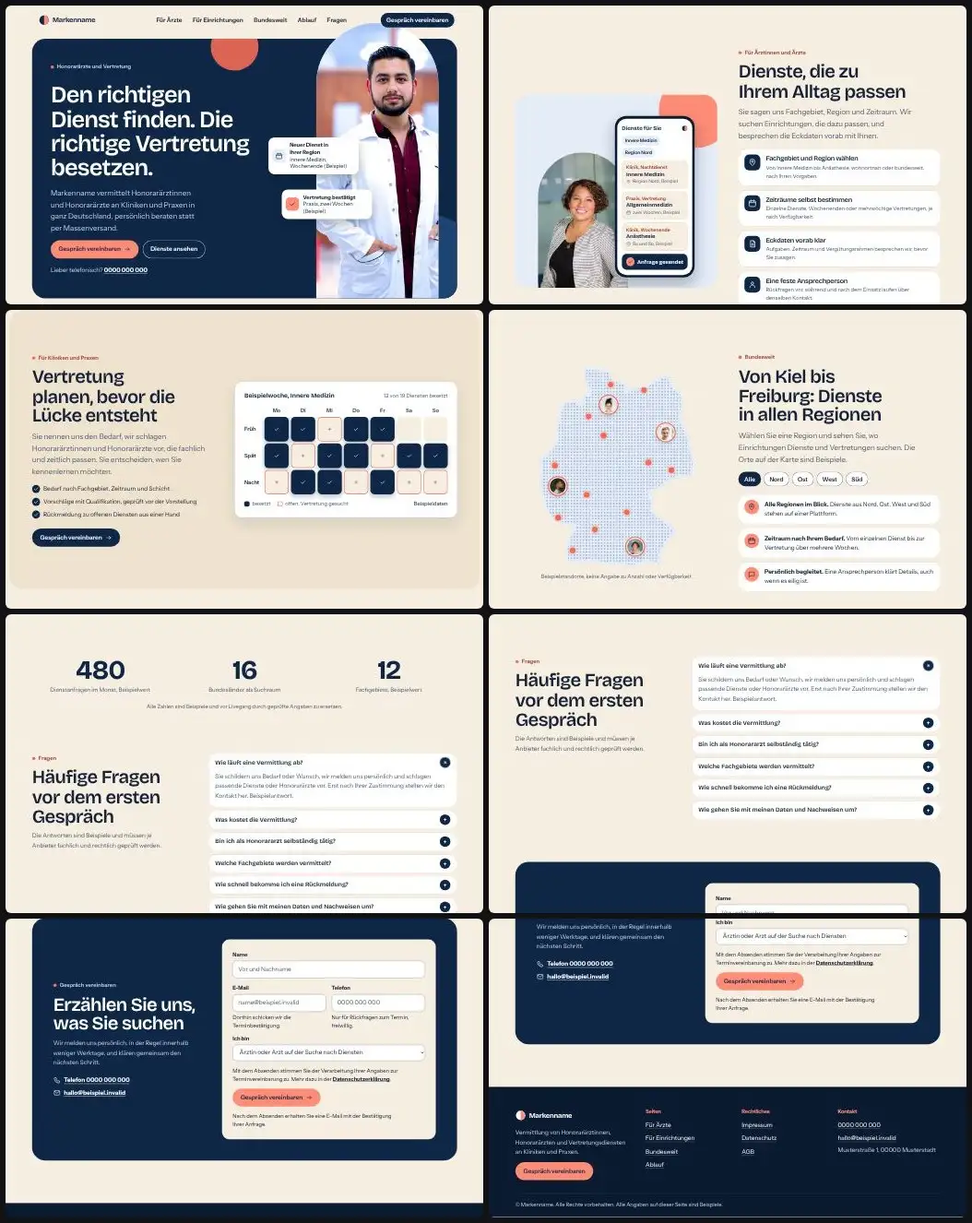
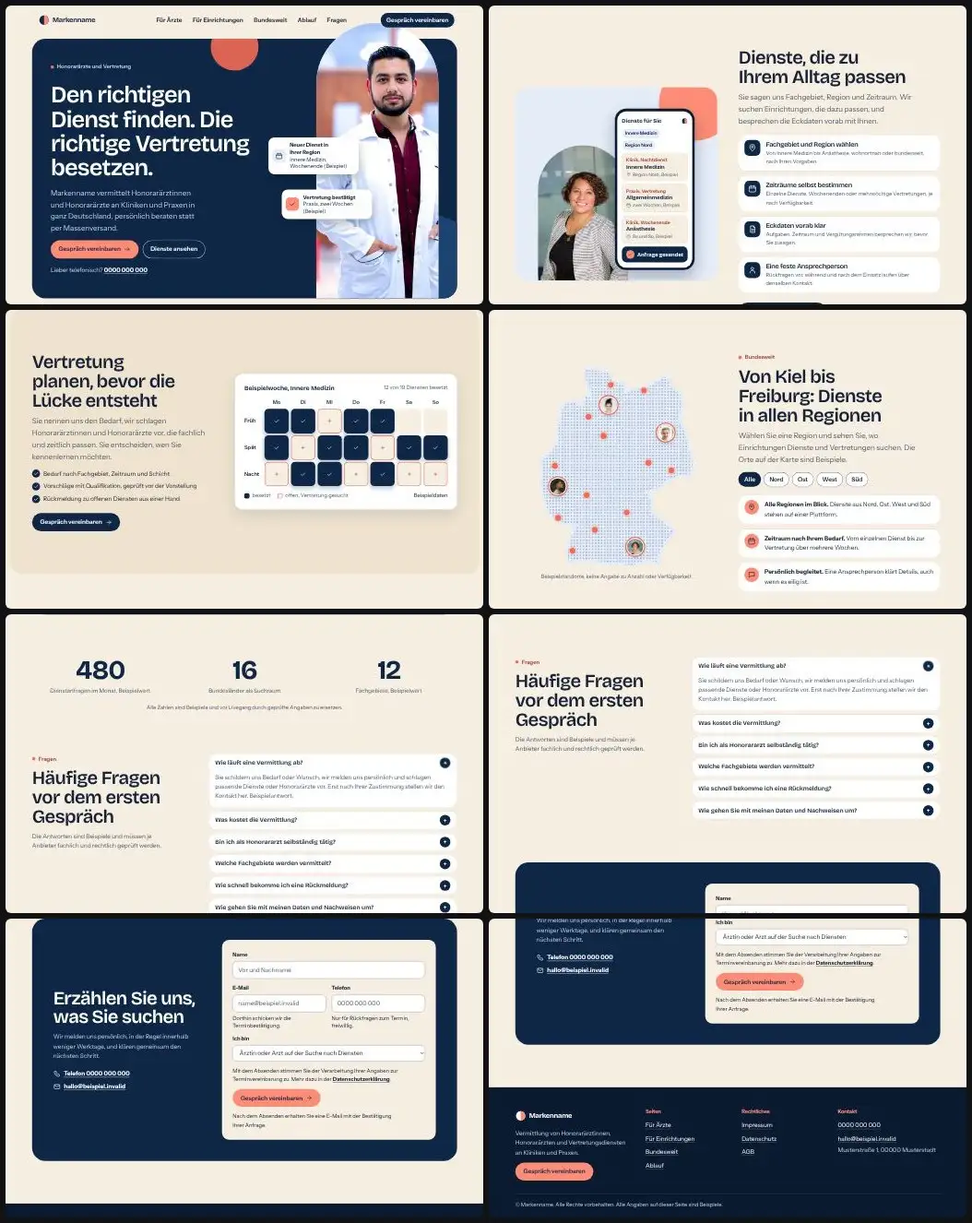
Bibliothek t99 bis t111: Abschlussdurchgang (Kicker, Hover in Medienabfrage, Vorschau t100 und t102)
Claude-Session: https://claude.ai/code/session_01DoGuKzzFPezwatxKtZNEi2

diff --git a/skills/webdesign-conversion/assets/vorlagen/bibliothek/t108/stil.css b/skills/webdesign-conversion/assets/vorlagen/bibliothek/t108/stil.css
@@ -5,7 +5,7 @@
 h2{font-size:var(--h2)}
 .textlink{display:inline-flex;align-items:center;gap:.4rem;min-height:2.75rem;font-weight:600;color:var(--akzent)}
 .textlink svg{transition:transform var(--dauer-kurz) var(--kurve)}
-.textlink:hover svg{transform:translateX(4px)}
+@media (hover:hover) and (pointer:fine){.textlink:hover svg{transform:translateX(4px)}}
 .knopf--rand{background:var(--weiss);color:var(--text);box-shadow:inset 0 0 0 1.5px var(--linie)}
 .knopf--rand svg{color:var(--akzent)}
 .knopf:hover{background:#0a4f40}
@@ -86,7 +86,7 @@ h2{font-size:var(--h2)}
 html:not(.reiter-an) .reiterliste{display:none}
 .reiter{flex:none;display:flex;flex-direction:column;align-items:center;gap:.35rem;min-width:5.5rem;padding:.5rem .5rem .4rem;border-radius:18px;font-size:.8125rem;font-weight:600;color:var(--text);transition:background-color var(--dauer-kurz)}
 .reiter__ikon{display:grid;place-items:center;width:3.25rem;height:3.25rem;border-radius:16px;background:var(--k);color:#fff;transition:transform var(--dauer-mittel) var(--kurve)}
-.reiter:hover .reiter__ikon{transform:translateY(-3px)}
+@media (hover:hover) and (pointer:fine){.reiter:hover .reiter__ikon{transform:translateY(-3px)}}
 .reiter[aria-selected="true"]{background:var(--flaeche-alt)}
 .reiter[aria-selected="true"] .reiter__ikon{transform:translateY(-4px) scale(1.12)}
 .tafeln{display:grid;gap:1.5rem}
@@ -174,7 +174,7 @@ html:not(.reiter-an) .reiterliste{display:none}
 @media (min-width:44rem){.vorteile__raster{grid-template-columns:repeat(2,1fr)}}
 @media (min-width:64rem){.vorteile__raster{grid-template-columns:repeat(3,1fr)}}
 .vorteile .karte{gap:.7rem;background:linear-gradient(180deg,var(--weiss),var(--flaeche));transition:transform var(--dauer-mittel) var(--kurve)}
-.vorteile .karte:hover{transform:translateY(-4px)}
+@media (hover:hover) and (pointer:fine){.vorteile .karte:hover{transform:translateY(-4px)}}
 .vorteile h3{display:flex;align-items:center;gap:.6rem;font-size:1.125rem;letter-spacing:-.01em}
 .vorteile h3 svg{color:var(--akzent)}
 .zeichnung{position:relative;width:100%;height:11rem;margin-top:auto;display:grid;place-items:center}
@@ -231,14 +231,14 @@ html:not(.reiter-an) .reiterliste{display:none}
 .gross__bild{position:relative;width:100%;aspect-ratio:16/10;border-radius:var(--radius-bild);background:var(--flaeche-dunkel);overflow:hidden;display:flex;align-items:flex-end;gap:.6rem;padding:1.25rem}
 .gross__bild span{flex:1;border-radius:10px 10px 4px 4px;background:var(--gruen-hell);height:45%}
 .gross__bild span:nth-child(2){height:70%;background:var(--sonne)}.gross__bild span:nth-child(3){height:55%;background:var(--koralle)}
-.gross:hover .gross__bild span{transform:translateY(-6px)}
+@media (hover:hover) and (pointer:fine){.gross:hover .gross__bild span{transform:translateY(-6px)}}
 .gross__bild span{transition:transform var(--dauer-mittel) var(--kurve)}
 .ratgeber__liste{display:grid}
 .ratgeber__liste li{display:grid;gap:.3rem;padding-block:1.1rem;border-bottom:1px solid var(--linie)}
 .ratgeber__liste li:first-child{padding-top:0}
 .ratgeber__liste h3{font-size:1.125rem;letter-spacing:-.01em}
 .ratgeber__liste h3 a{display:inline-block;padding-block:.15rem;transition:transform var(--dauer-kurz) var(--kurve)}
-.ratgeber__liste h3 a:hover{transform:translateX(4px);color:var(--akzent)}
+@media (hover:hover) and (pointer:fine){.ratgeber__liste h3 a:hover{transform:translateX(4px);color:var(--akzent)}}
 .ratgeber__liste p:not(.meta){color:var(--text-leise);font-size:var(--text-s)}
 
 /* Fragen */
@@ -260,7 +260,7 @@ details p{padding:0 1.25rem 1.25rem;color:var(--text-leise)}
 .faecher{position:absolute;top:clamp(1.5rem,3vw,2.5rem);left:50%;display:flex;transform:translateX(-50%)}
 .faecher i{width:3.5rem;height:3.5rem;margin-inline:-.35rem;border-radius:16px;background:var(--k);box-shadow:0 8px 20px rgba(0,0,0,.35);transform:rotate(calc((var(--n,0) - 2.5) * 7deg)) translateY(calc(var(--y,0) * 1px));transition:transform var(--dauer-mittel) var(--kurve)}
 .faecher i:nth-child(1){--n:0;--y:6}.faecher i:nth-child(2){--n:1;--y:1}.faecher i:nth-child(3){--n:2;--y:-3}.faecher i:nth-child(4){--n:3;--y:-3}.faecher i:nth-child(5){--n:4;--y:1}.faecher i:nth-child(6){--n:5;--y:6}
-.schluss:hover .faecher i{transform:rotate(calc((var(--n,0) - 2.5) * 10deg)) translateY(calc(var(--y,0) * 1px - 6px))}
+@media (hover:hover) and (pointer:fine){.schluss:hover .faecher i{transform:rotate(calc((var(--n,0) - 2.5) * 10deg)) translateY(calc(var(--y,0) * 1px - 6px))}}
 .schluss__raster{display:grid;gap:2.5rem}
 @media (min-width:56rem){.schluss__raster{grid-template-columns:1fr 1fr;align-items:center;gap:4rem}}
 .schluss__text{display:flex;flex-direction:column;gap:1.1rem}

diff --git a/skills/webdesign-conversion/assets/vorlagen/bibliothek/t105/stil.css b/skills/webdesign-conversion/assets/vorlagen/bibliothek/t105/stil.css
@@ -12,7 +12,7 @@ h3{font-size:var(--h3);line-height:1.2}
 .knopf{justify-content:center;text-align:center;font-size:1rem;font-weight:600;min-height:3rem;padding-right:.5rem}
 .knopf:hover{box-shadow:0 8px 20px color-mix(in srgb,var(--akzent) 25%,transparent)}
 .knopf__punkt{display:inline-grid;place-items:center;width:2.25rem;height:2.25rem;border-radius:50%;background:var(--akzent-text);color:var(--akzent);transition:transform var(--dauer-kurz) var(--kurve)}
-.knopf:hover .knopf__punkt{transform:translate(2px,-2px)}
+@media (hover:hover) and (pointer:fine){.knopf:hover .knopf__punkt{transform:translate(2px,-2px)}}
 .knopf--koralle{background:var(--koralle);color:var(--text);padding-right:1.5rem}
 .knopf--koralle:focus-visible{outline-color:var(--sonne)}
 .textlink{display:inline-flex;align-items:center;min-height:3rem;padding-inline:.5rem;font-weight:600;text-decoration:underline;text-underline-offset:.3em;text-decoration-thickness:2px}
@@ -158,8 +158,8 @@ h3{font-size:var(--h3);line-height:1.2}
 .kk{flex:none;width:min(15rem,70%);display:grid;gap:.25rem;border-radius:1rem;padding:1rem;font-size:.8rem;color:var(--text);transition:transform var(--dauer-mittel) var(--kurve)}
 .kk b{font-size:1.2rem}
 .kk--himmel{background:var(--himmel)}.kk--sonne{background:var(--sonne)}.kk--koralle{background:var(--koralle)}
-.bk:hover .kk:nth-child(2){transform:translateY(-6px)}
-.bk:hover .kk:nth-child(3){transform:translateY(-12px)}
+@media (hover:hover) and (pointer:fine){.bk:hover .kk:nth-child(2){transform:translateY(-6px)}}
+@media (hover:hover) and (pointer:fine){.bk:hover .kk:nth-child(3){transform:translateY(-12px)}}
 .ziele{display:grid;gap:.75rem;font-size:.9rem}
 .ziele>div{display:grid;gap:.5rem}
 
@@ -219,11 +219,11 @@ h3{font-size:var(--h3);line-height:1.2}
 .mehr__kopf p{color:var(--text-leise);margin-top:.5rem}
 .pfeile{display:flex;gap:.5rem}
 .pfeil{display:grid;place-items:center;width:3rem;height:3rem;border-radius:50%;background:var(--akzent);color:var(--akzent-text);transition:transform var(--dauer-kurz) var(--kurve)}
-.pfeil:hover{transform:translateY(-2px)}
+@media (hover:hover) and (pointer:fine){.pfeil:hover{transform:translateY(-2px)}}
 .pfeil[aria-disabled="true"]{opacity:.35;cursor:default}
 .spur{display:flex;gap:1rem;overflow-x:auto;scroll-snap-type:x mandatory;padding:.5rem var(--bleed,var(--rand)) 1rem;scroll-padding-inline:var(--bleed,var(--rand));scrollbar-width:thin;--bleed:max(var(--rand),calc((100vw - var(--breite)) / 2))}
 .fk{flex:none;scroll-snap-align:start;width:min(19rem,80vw);display:grid;gap:.6rem;align-content:start;background:var(--weiss);border-radius:var(--radius-karte);padding:1rem 1rem 1.5rem;box-shadow:0 1px 0 var(--linie);transition:transform var(--dauer-mittel) var(--kurve)}
-.fk:hover{transform:translateY(-4px)}
+@media (hover:hover) and (pointer:fine){.fk:hover{transform:translateY(-4px)}}
 .fk h3{font-size:1.25rem;margin-top:.5rem}
 .fk p{color:var(--text-leise)}
 .fk__bild{display:grid;align-content:center;min-height:9rem;border-radius:1rem;background:var(--flaeche);padding:1rem;font-size:.8rem}
@@ -273,7 +273,7 @@ h3{font-size:var(--h3);line-height:1.2}
 .stimmband::-webkit-scrollbar{display:none}
 .stimmband__spur{display:flex;flex:none;gap:1rem;padding-right:1rem;list-style:none;animation:reihe 80s linear infinite}
 .stimmband--2 .stimmband__spur{animation-direction:reverse;animation-duration:90s}
-.stimmband:hover .stimmband__spur{animation-play-state:paused}
+@media (hover:hover) and (pointer:fine){.stimmband:hover .stimmband__spur{animation-play-state:paused}}
 .stimme{flex:none;width:min(21rem,78vw);display:grid;gap:.75rem;align-content:space-between;background:var(--weiss);border-radius:var(--radius-karte);padding:1.25rem;box-shadow:0 1px 0 var(--linie)}
 .stimme blockquote p{font-size:1.0625rem}
 .stimme__name{color:var(--text-leise);font-size:1rem;font-weight:600}

diff --git a/skills/webdesign-conversion/assets/vorlagen/bibliothek/t102/stil.css b/skills/webdesign-conversion/assets/vorlagen/bibliothek/t102/stil.css
@@ -125,7 +125,7 @@ h3{font-size:clamp(1.4rem,1.15rem + .9vw,1.8rem);line-height:1.15}
 .leist__raster{display:grid;gap:1.25rem;grid-template-columns:1fr}
 .leist__raster>li{display:grid}
 .karte{display:grid;grid-template-rows:auto auto 1fr auto;align-content:start;gap:.75rem;padding:1.5rem;border-radius:var(--radius-karte);background:var(--weiss);color:var(--text);overflow:hidden;transition:transform var(--dauer-mittel) var(--kurve);will-change:transform}
-.karte:hover{transform:translateY(-8px)}
+@media (hover:hover) and (pointer:fine){.karte:hover{transform:translateY(-8px)}}
 .karte p{color:var(--text-leise)}
 .karte__nr{display:grid;place-items:center;width:2.75rem;height:2.75rem;border-radius:50%;background:var(--honig);color:var(--text);font-weight:800;font-size:1rem}
 .karte__foto{position:relative;margin-top:.5rem;border-radius:16px;overflow:hidden}
@@ -179,7 +179,7 @@ h3{font-size:clamp(1.4rem,1.15rem + .9vw,1.8rem);line-height:1.15}
 .direkt__raster{display:grid;gap:1rem;margin-bottom:-3rem;padding-bottom:0}
 .direkt__raster>li{display:grid}
 .direkt__karte{display:grid;grid-template-columns:auto 1fr auto;align-items:center;gap:1rem;padding:1.5rem;border-radius:var(--radius-karte);background:var(--weiss);color:var(--text);box-shadow:0 16px 32px color-mix(in srgb,var(--text) 14%,transparent);transition:transform var(--dauer-mittel) var(--kurve)}
-.direkt__karte:hover{transform:translateY(-6px)}
+@media (hover:hover) and (pointer:fine){.direkt__karte:hover{transform:translateY(-6px)}}
 .direkt__karte--honig{background:var(--honig)}
 .direkt__icon{color:var(--akzent)}
 .direkt__text{display:grid;gap:.15rem}
@@ -189,7 +189,7 @@ h3{font-size:clamp(1.4rem,1.15rem + .9vw,1.8rem);line-height:1.15}
 .direkt__text span{color:var(--text-leise)}
 .direkt__karte--honig .direkt__text span{color:var(--text)}
 .direkt__pfeil{color:var(--akzent);transition:transform var(--dauer-kurz) var(--kurve)}
-.direkt__karte:hover .direkt__pfeil{transform:translate(2px,-2px)}
+@media (hover:hover) and (pointer:fine){.direkt__karte:hover .direkt__pfeil{transform:translate(2px,-2px)}}
 .direkt__karte :focus-visible,.direkt__karte:focus-visible{outline-color:var(--akzent)}
 @media (min-width:48rem){.direkt__raster{grid-template-columns:1fr 1fr;gap:1.5rem}}
 @media (min-width:62rem){.direkt__raster{margin-bottom:-4rem}.direkt__karte{padding:1.75rem 2rem}}
@@ -212,7 +212,7 @@ h3{font-size:clamp(1.4rem,1.15rem + .9vw,1.8rem);line-height:1.15}
 .formular__recht a{text-decoration:underline;text-underline-offset:.2em;font-weight:700;color:var(--akzent)}
 .formular__meldung{padding:.75rem 1rem;border-radius:14px;background:var(--flaeche);box-shadow:inset 0 0 0 1.5px var(--akzent)}
 .rund{position:absolute;right:clamp(1.25rem,4vw,2.5rem);bottom:clamp(1.25rem,3vw,2rem);display:grid;place-items:center;width:5.5rem;height:5.5rem;border-radius:50%;background:var(--honig);color:var(--text);font-weight:800;font-size:1.0625rem;isolation:isolate;transition:transform var(--dauer-kurz) var(--kurve)}
-.rund:hover{transform:scale(1.06)}
+@media (hover:hover) and (pointer:fine){.rund:hover{transform:scale(1.06)}}
 .rund:active{transform:scale(.96)}
 .rund::after{content:"";position:absolute;inset:0;z-index:-1;border-radius:50%;background:var(--honig);opacity:0;animation:puls 2.8s ease-out infinite}
 @keyframes puls{0%{transform:scale(1);opacity:.55}70%,100%{transform:scale(1.55);opacity:0}}

diff --git a/skills/webdesign-conversion/assets/vorlagen/bibliothek/t100/index.html b/skills/webdesign-conversion/assets/vorlagen/bibliothek/t100/index.html
@@ -115,7 +115,6 @@
         </div>
       </div>
       <div class="aerzte__text">
-        <p class="kicker kicker--hell"><span class="kicker__punkt" aria-hidden="true"></span>Für Ärztinnen und Ärzte</p>
         <h2 id="h-aerzte">Dienste, die zu Ihrem Alltag passen</h2>
         <p class="aerzte__lead">Sie sagen uns Fachgebiet, Region und Zeitraum. Wir suchen Einrichtungen, die dazu passen, und besprechen die Eckdaten vorab mit Ihnen.</p>
         <ul class="vorteile" data-staffel>
@@ -133,7 +132,6 @@
   <section class="sektion einr" id="einrichtungen" aria-labelledby="h-einr">
     <div class="wrap einr__raster">
       <div class="einr__text">
-        <p class="kicker kicker--hell"><span class="kicker__punkt" aria-hidden="true"></span>Für Kliniken und Praxen</p>
         <h2 id="h-einr">Vertretung planen, bevor die Lücke entsteht</h2>
         <p class="einr__lead">Sie nennen uns den Bedarf, wir schlagen Honorarärztinnen und Honorarärzte vor, die fachlich und zeitlich passen. Sie entscheiden, wen Sie kennenlernen möchten.</p>
         <ul class="haken-liste">
@@ -232,7 +230,6 @@
   <section class="schritte wrap" id="ablauf" aria-labelledby="h-ablauf">
     <div class="schritte__block">
       <div class="held__deko" aria-hidden="true"><span class="held__kreis held__kreis--c"></span></div>
-      <p class="kicker"><span class="kicker__punkt" aria-hidden="true"></span>Ablauf</p>
       <h2 id="h-ablauf">In drei Schritten zum passenden Dienst</h2>
       <div class="schritte__spur">
       <ol class="schritte__liste" data-staffel>
@@ -310,7 +307,6 @@
   <section class="kontakt wrap" id="kontakt" aria-labelledby="h-kontakt">
     <div class="kontakt__block">
       <div class="kontakt__text">
-        <p class="kicker"><span class="kicker__punkt" aria-hidden="true"></span>Gespräch vereinbaren</p>
         <h2 id="h-kontakt">Erzählen Sie uns, was Sie suchen</h2>
         <p>Wir melden uns persönlich, in der Regel innerhalb weniger Werktage, und klären gemeinsam den nächsten Schritt.</p>
         <ul class="kontakt__wege">

diff --git a/skills/webdesign-conversion/assets/vorlagen/bibliothek/t101/stil.css b/skills/webdesign-conversion/assets/vorlagen/bibliothek/t101/stil.css
@@ -19,7 +19,7 @@ main>section{position:relative;overflow:clip}
 .knopf{justify-content:center;text-align:center;font-weight:700;font-size:1rem;padding:.4rem .5rem .4rem 1.5rem;min-height:3rem}
 .knopf:hover{box-shadow:0 8px 20px color-mix(in srgb,var(--akzent) 28%,transparent)}
 .knopf__punkt{display:inline-grid;place-items:center;width:2.25rem;height:2.25rem;border-radius:50%;background:var(--zitrone);color:var(--marine-dunkel);transition:transform var(--dauer-kurz) var(--kurve)}
-.knopf:hover .knopf__punkt{transform:translateX(3px)}
+@media (hover:hover) and (pointer:fine){.knopf:hover .knopf__punkt{transform:translateX(3px)}}
 .knopf:not(:has(.knopf__punkt)){padding-right:1.5rem}
 .knopf--rand{padding:.4rem 1.5rem;box-shadow:inset 0 0 0 2px var(--akzent);color:var(--akzent)}
 .knopf--rand:hover{box-shadow:inset 0 0 0 2px var(--akzent),0 8px 20px color-mix(in srgb,var(--akzent) 18%,transparent)}

diff --git a/skills/webdesign-conversion/assets/vorlagen/bibliothek/t103/stil.css b/skills/webdesign-conversion/assets/vorlagen/bibliothek/t103/stil.css
@@ -98,7 +98,7 @@ h3{font-size:var(--h3);line-height:1.2}
 .laufband .band{--band-abstand:1rem;--band-dauer:46s;padding-block:.25rem}
 .laufband .band__spur{justify-content:flex-start}
 .laufband:has(.laufband__schalter:checked) .band__spur{animation-play-state:paused}
-.laufband .band:hover .band__spur{animation-play-state:paused}
+@media (hover:hover) and (pointer:fine){.laufband .band:hover .band__spur{animation-play-state:paused}}
 .zahl{flex:none;width:clamp(15rem,70vw,19rem)}
 .zahl figure{position:relative;height:clamp(21rem,95vw,25rem);border-radius:var(--radius-karte);overflow:hidden;background:var(--flaeche-dunkel);color:#fff}
 .zahl img{position:absolute;inset:0;width:100%;height:100%;object-fit:cover;transition:transform var(--dauer-mittel) var(--kurve)}

diff --git a/skills/webdesign-conversion/assets/vorlagen/bibliothek/t102/index.html b/skills/webdesign-conversion/assets/vorlagen/bibliothek/t102/index.html
@@ -122,7 +122,6 @@
   <section class="leist" id="leistungen" aria-labelledby="h-leist">
     <div class="wrap">
       <div class="leist__kopf" data-staffel>
-        <p class="kicker kicker--hell" data-zeig>Was wir leisten</p>
         <h2 id="h-leist" data-zeig>Unsere Leistungen für Sie</h2>
         <p data-zeig>Wir bieten Hilfe von der Körperpflege bis zur ärztlich verordneten Versorgung. So können Sie möglichst lange selbstbestimmt zu Hause leben.</p>
       </div>

diff --git a/CLAUDE.md b/CLAUDE.md
@@ -418,7 +418,7 @@ Verfahren und Schwellen: `skills/webdesign-conversion/references/25-designmuster
 
 ## Änderungsverlauf
 
-- **26.11.2026, ohne Versionsänderung, Bibliothek t99 bis t111, Screenshots und genannte Webseiten** Auf Wunsch des Inhabers 13 weitere Vorlagen, parallel von Agenten nach einem gemeinsamen Auftrag gebaut (Prinzip statt Kopie, eigene Farbe, Schrift, Text, Bild und Marke). **Nach drei Screenshots (Tor 1 durch Nennung):** t99 Labor (Patholab), t100 Ärztevertretung (Repasse), t101 Reinigung, t102 Pflegedienst (Heritage Home Health), t103 Zahnarzt (Smilifye). **Nach sieben genannten Adressen, je Startseite mit Playwright bei 1440 und 390 Pixel erfasst, nichts gespeichert:** t104 tipalti.com, t105 mojek.money, t106 possiblefinance.com, t107 rocket-saas.io, t108 dropship.io, t109 contiant.com, t110 ideapeel.com; dazu t111 heavn-one.webflow.io (Webflow Template, keine Webflow Klassen im Ergebnis). Hauptbranche je Vorlage in `KARTE.json`. **Gemessen:** je Vorlage bei 390 und 1440 Pixel ohne Konsolenfehler und ohne Überlauf, bei reduzierter Bewegung alles sichtbar, Tab Durchlauf mit sichtbarem Fokus, `bibliothek-conversion.mjs` (13 Seiten, 0 Fehler, 0 Warnungen), `pruefe-striche` ohne Befund, `pruefe-geschmack` und `pruefe-motion` je Vorlage ohne Fehler; Kontrast der Textpaare von den Agenten gerechnet und in `marke.css` und `INFO.md` eingetragen. **Skripte angepasst:** `bibliothek-conversion.mjs` und `bibliothek-vorschau.mjs` erkannten nur zweistellige Nummern (`/^t\d\d$/`), das erste Argument `t103` hätte alle Vorlagen statt t103 geprüft; jetzt `\d{2,3}`. Galerie auf 111 Karten, 39 neue Vorschaubilder. **Bewusst umgedreht** (Kapitel 26): farbige Akzentwörter, Zierstriche, Pillen, Fremdlogos und Bewertungsleisten der Referenzen. **Ungemessen / offen:** Kontrast von Text über Fotos nur über Verläufe geschätzt, Safari, Screenreader, echte Geräte, Leistung der pinnenden Bühnen (t109, t110, t111). Die Bewegung ist aus Beobachtung geschätzt, nicht Bild für Bild erfasst. **Fotos:** es gibt in der Bibliothek keine Fotos zu Labor, Pflege beim Hausbesuch, Zahnbehandlung, Ärzten mit Laptop; dort stehen Beispielfotos anderer Themen oder eigene SVG und HTML Oberflächen, viele ohne Nachweis schon in den Ursprungsvorlagen. **Rechtstexte** (Labor, Pflege, Zahnarzt, Vermittlung, Zahlung, Kredit, Händlerdaten, Rückgabe) sind nicht rechtlich geprüft. Offene Einzelpunkte je Vorlage in `INFO.md`; bekannt: t104 und t108 Bänder, `scroll-margin-top` fehlt bei schwebenden Kopfleisten (t105, t106, t107, t108), t108 Produktreihen ohne Pause Schalter (WCAG 2.2.2 im Projekt prüfen), `wa.me` als Platzhalterlink auf einen Fremdserver in t101. Kein Evalfall.
+- **26.11.2026, ohne Versionsänderung, Bibliothek t99 bis t111, Screenshots und genannte Webseiten** Auf Wunsch des Inhabers 13 weitere Vorlagen, parallel von Agenten nach einem gemeinsamen Auftrag gebaut (Prinzip statt Kopie, eigene Farbe, Schrift, Text, Bild und Marke). **Nach drei Screenshots (Tor 1 durch Nennung):** t99 Labor (Patholab), t100 Ärztevertretung (Repasse), t101 Reinigung, t102 Pflegedienst (Heritage Home Health), t103 Zahnarzt (Smilifye). **Nach sieben genannten Adressen, je Startseite mit Playwright bei 1440 und 390 Pixel erfasst, nichts gespeichert:** t104 tipalti.com, t105 mojek.money, t106 possiblefinance.com, t107 rocket-saas.io, t108 dropship.io, t109 contiant.com, t110 ideapeel.com; dazu t111 heavn-one.webflow.io (Webflow Template, keine Webflow Klassen im Ergebnis). Hauptbranche je Vorlage in `KARTE.json`. **Gemessen:** je Vorlage bei 390 und 1440 Pixel ohne Konsolenfehler und ohne Überlauf, bei reduzierter Bewegung alles sichtbar, Tab Durchlauf mit sichtbarem Fokus, `bibliothek-conversion.mjs` (13 Seiten, 0 Fehler, 0 Warnungen), `pruefe-striche` ohne Befund, `pruefe-geschmack` und `pruefe-motion` je Vorlage ohne Fehler; Kontrast der Textpaare von den Agenten gerechnet und in `marke.css` und `INFO.md` eingetragen. **Skripte angepasst:** `bibliothek-conversion.mjs` und `bibliothek-vorschau.mjs` erkannten nur zweistellige Nummern (`/^t\d\d$/`), das erste Argument `t103` hätte alle Vorlagen statt t103 geprüft; jetzt `\d{2,3}`. Galerie auf 111 Karten, 39 neue Vorschaubilder. **Bewusst umgedreht** (Kapitel 26): farbige Akzentwörter, Zierstriche, Pillen, Fremdlogos und Bewertungsleisten der Referenzen. **Ungemessen / offen:** Kontrast von Text über Fotos nur über Verläufe geschätzt, Safari, Screenreader, echte Geräte, Leistung der pinnenden Bühnen (t109, t110, t111). Die Bewegung ist aus Beobachtung geschätzt, nicht Bild für Bild erfasst. **Fotos:** es gibt in der Bibliothek keine Fotos zu Labor, Pflege beim Hausbesuch, Zahnbehandlung, Ärzten mit Laptop; dort stehen Beispielfotos anderer Themen oder eigene SVG und HTML Oberflächen, viele ohne Nachweis schon in den Ursprungsvorlagen. **Rechtstexte** (Labor, Pflege, Zahnarzt, Vermittlung, Zahlung, Kredit, Händlerdaten, Rückgabe) sind nicht rechtlich geprüft. Abschlussdurchgang am selben Tag: Kicker in t100 und t102 auf das erlaubte Maß gekürzt (`pruefe-geschmack` ohne Fehler), `:hover`-Bewegung in t101, t102, t103, t105, t108 in `@media (hover:hover) and (pointer:fine)` gelegt (`pruefe-motion` meldet ohne Fehler, übrig sind lange dekorative Dauern und einzelne Hover in verschachtelten Regeln), Browserlauf aller 13 bei 390 und 1440 Pixel normal und reduziert ohne Fehler, Überlauf oder versteckte Inhalte, Galerie ohne kaputtes Bild; Tests 368 von 369 bestanden (kein Fehlschlag), `pruefe-skill` ohne Fehler. Offene Einzelpunkte je Vorlage in `INFO.md`; bekannt: t104 und t108 Bänder, `scroll-margin-top` fehlt bei schwebenden Kopfleisten (t105, t106, t107, t108), t108 Produktreihen ohne Pause Schalter (WCAG 2.2.2 im Projekt prüfen), `wa.me` als Platzhalterlink auf einen Fremdserver in t101. Kein Evalfall.
 - **26.11.2026, ohne Versionsänderung, Bibliothek t76, t90, t96, erzeugte Produktbilder** Auf Wunsch des Inhabers sollten die Bilder der Pinterest Screenshots "1:1" übernommen werden (Ladeinfrastruktur, Lampen, Smartwatch). **Nicht geschehen, Grund:** Auflösung (Screenshots 190 bis 740 Pixel breit, Ausschnitt 3 bis 7 mal zu klein), unbekannte Rechte, keine Adressen der Quellen. Der Inhaber hat **"neu erzeugen"** gewählt: Bilder mit Figma `generate_image` (28 Erzeugungen auf seinem Starter Plan), Produkte per Farbschlüssel freigestellt (Chroma Grün, Skript im Arbeitsordner, nicht im Repository, Repository bleibt ohne Python), in t76 Säule, Stecker, Auto, Hand, Säulenreihe, in t90 acht Lampen, Held, Regal, Film Poster, in t96 vier Gehäusefarben, Teile, Szene eingebaut, Bewegung angepasst (Ebenenwechsel Produkt und Großschrift, Zähler auf dem Display, Konfigurator über Bildwechsel). Kennzeichnung "KI erzeugt" je Bild in `BILDER.md`. **Gefunden:** `bibliothek-conversion.mjs` verwarf das erste Argument (`t76` prüfte alle Vorlagen), behoben. **Ungemessen:** Kontrast von Text über den neuen Fotos, Rechte und Kennzeichnung erzeugter Bilder, Safari. **Offen:** das Auto in t76 und die Uhr in t96 ähneln bekannten Produkten (Tesla Model 3, Apple Watch), vor Livegang prüfen; in t90 liegt die Heldlampe mobil großenteils hinter dem Text; die anderen 27 Vorlagen aus t69 bis t98 tragen weiter fachfremde Beispielfotos oder SVG Formen.
 - **26.11.2026, ohne Versionsänderung, Bibliothek t69 bis t98, Pinterest Screenshots** Auf Wunsch des Inhabers 30 weitere Vorlagen nach Pinterest Screenshots (Sportclub, Videotool, Koch App, Wellness, Finanz App, Finanzsoftware, Logistik, Ladeinfrastruktur, Weiterbildung, Gehaltssoftware, Podcast, Kreativagentur, Sanitär, Tennis App, Tennisclub, Agrartechnik, Praxis für mentale Gesundheit, Bauunternehmen, Personal Training, Reisebüro, Rad App, Leuchtenshop, Innenarchitektur, Zahnarzt, Kfz Werkstatt, Küchenstudio, KI Gadget, Smartwatch Zubehör, Finanzberatung, IT Beratung), parallel von bis zu 16 Agenten nach einem gemeinsamen Auftrag gebaut, Prinzip statt Kopie, keine Adresse und keine Lizenz zu den Quellen (siehe `HERKUNFT.md`). **Neu:** `scripts/bibliothek-conversion.mjs` prüft das Conversion Raster je Seite (auf ausdrücklichen Wunsch des Inhabers: immer prüfen). Ergebnis am 26.11.2026: alle 30 Vorlagen (30 Seiten) ohne Fehler und ohne Warnung, `pruefe-striche` ohne Befund, Galerie mit 98 Karten ohne kaputtes Vorschaubild und ohne Konsolenfehler, 294 Vorschaubilder erzeugt. Bei t84 blieb mobil eine Karte der Wischspur unsichtbar (Selbstfund bei der Abnahme, behoben). Arbeitsweise geändert: Der Inhaber hat die Arbeit **direkt auf `main`** freigegeben. **Bewusst umgedreht** (KI Tells nach Kapitel 26): farbige Akzentwörter, Pillen hinter Wörtern, kursive Serifenzeilen, handschriftliche Unterstreichung, Violettverlauf. **Gemessen:** je Vorlage bei 1440 und 390 Pixel ohne Konsolenfehler und ohne Überlauf, bei reduzierter Bewegung alles sichtbar, `pruefe-striche`. **Ungemessen:** Kontrast von Text über Fotos, Safari, Screenreader, echte Geräte, Leistung der Scrollbühnen, Bewegung (aus Standbildern geschätzt). **Offen:** Die Bibliothek hat keine Fotos zu Tennis, Rad, Auto, Zahnbehandlung, Luftbild, Lampen und Hardware, dort stehen Beispielfotos anderer Themen oder eigene SVG Formen; bei mehreren Fotos fehlt der Nachweis schon in den Ursprungsvorlagen. Rechtstexte (Psychotherapie, Zahnarzt, Finanzen, Bildung, Reise, Shop, Hardware mit Kamera) sind nicht rechtlich geprüft. Kein Evalfall.
 - **25.11.2026, ohne Versionsänderung, Bibliothek t01 bis t68, Formeln je Seite ausgeführt** Auf Wunsch des Inhabers die Conversion Formeln nicht als allgemeinen Platzhalter, sondern je Seite natürlich an Branche, Ansprache und Layout angepasst (sechs Agenten): H1 nach Zielgruppe, Problem und Lösung (Länge höchstens 30 Prozent über der alten, bei Großwort-H1 in t04, t06, t36, t66 steht die Formel in der Unterzeile), Unterzeile, ein branchenspezifischer Primär-CTA an allen Stellen, Titel und Beschreibung nach Formel mit „Musterstadt“, FAQ und Formular auf die Branche, Beleglabels als Beispiel, Held-Kommentar je Seite, `INFO.md` Abschnitt „Conversion (Playbook)“ je Vorlage. Neue FAQ-Abschnitte in t33, t42 v3, t51, t53, t54 v3, t55 (die Lückenliste zählte Leistungs-Akkordeons als FAQ, geprüft wird jetzt zusätzlich von Hand). Gemessen: 390 und 1440 Pixel ohne Konsolenfehler; Helden angesehen, Seiten darunter großenteils nur auf Überlauf geprüft. **Offen:** Texte (Finanz, Recht, Arzt, Heizung und Elektrik) fachlich und rechtlich nicht geprüft, `deslop-check` nur stichprobenartig; t34 v2 H1 berührt das rechte Bogenbild; t47 und t56 Kopfknopf mobil zweizeilig; t55 und t07 Unterzeile auf Foto mobil mit schwachem Kontrast, nicht gemessen; t25 ohne Primär-CTA im Held; t09 Held-Text über dem Foto jetzt mit Verlauf lesbar gemacht (Eingriff in `stil.css`).
